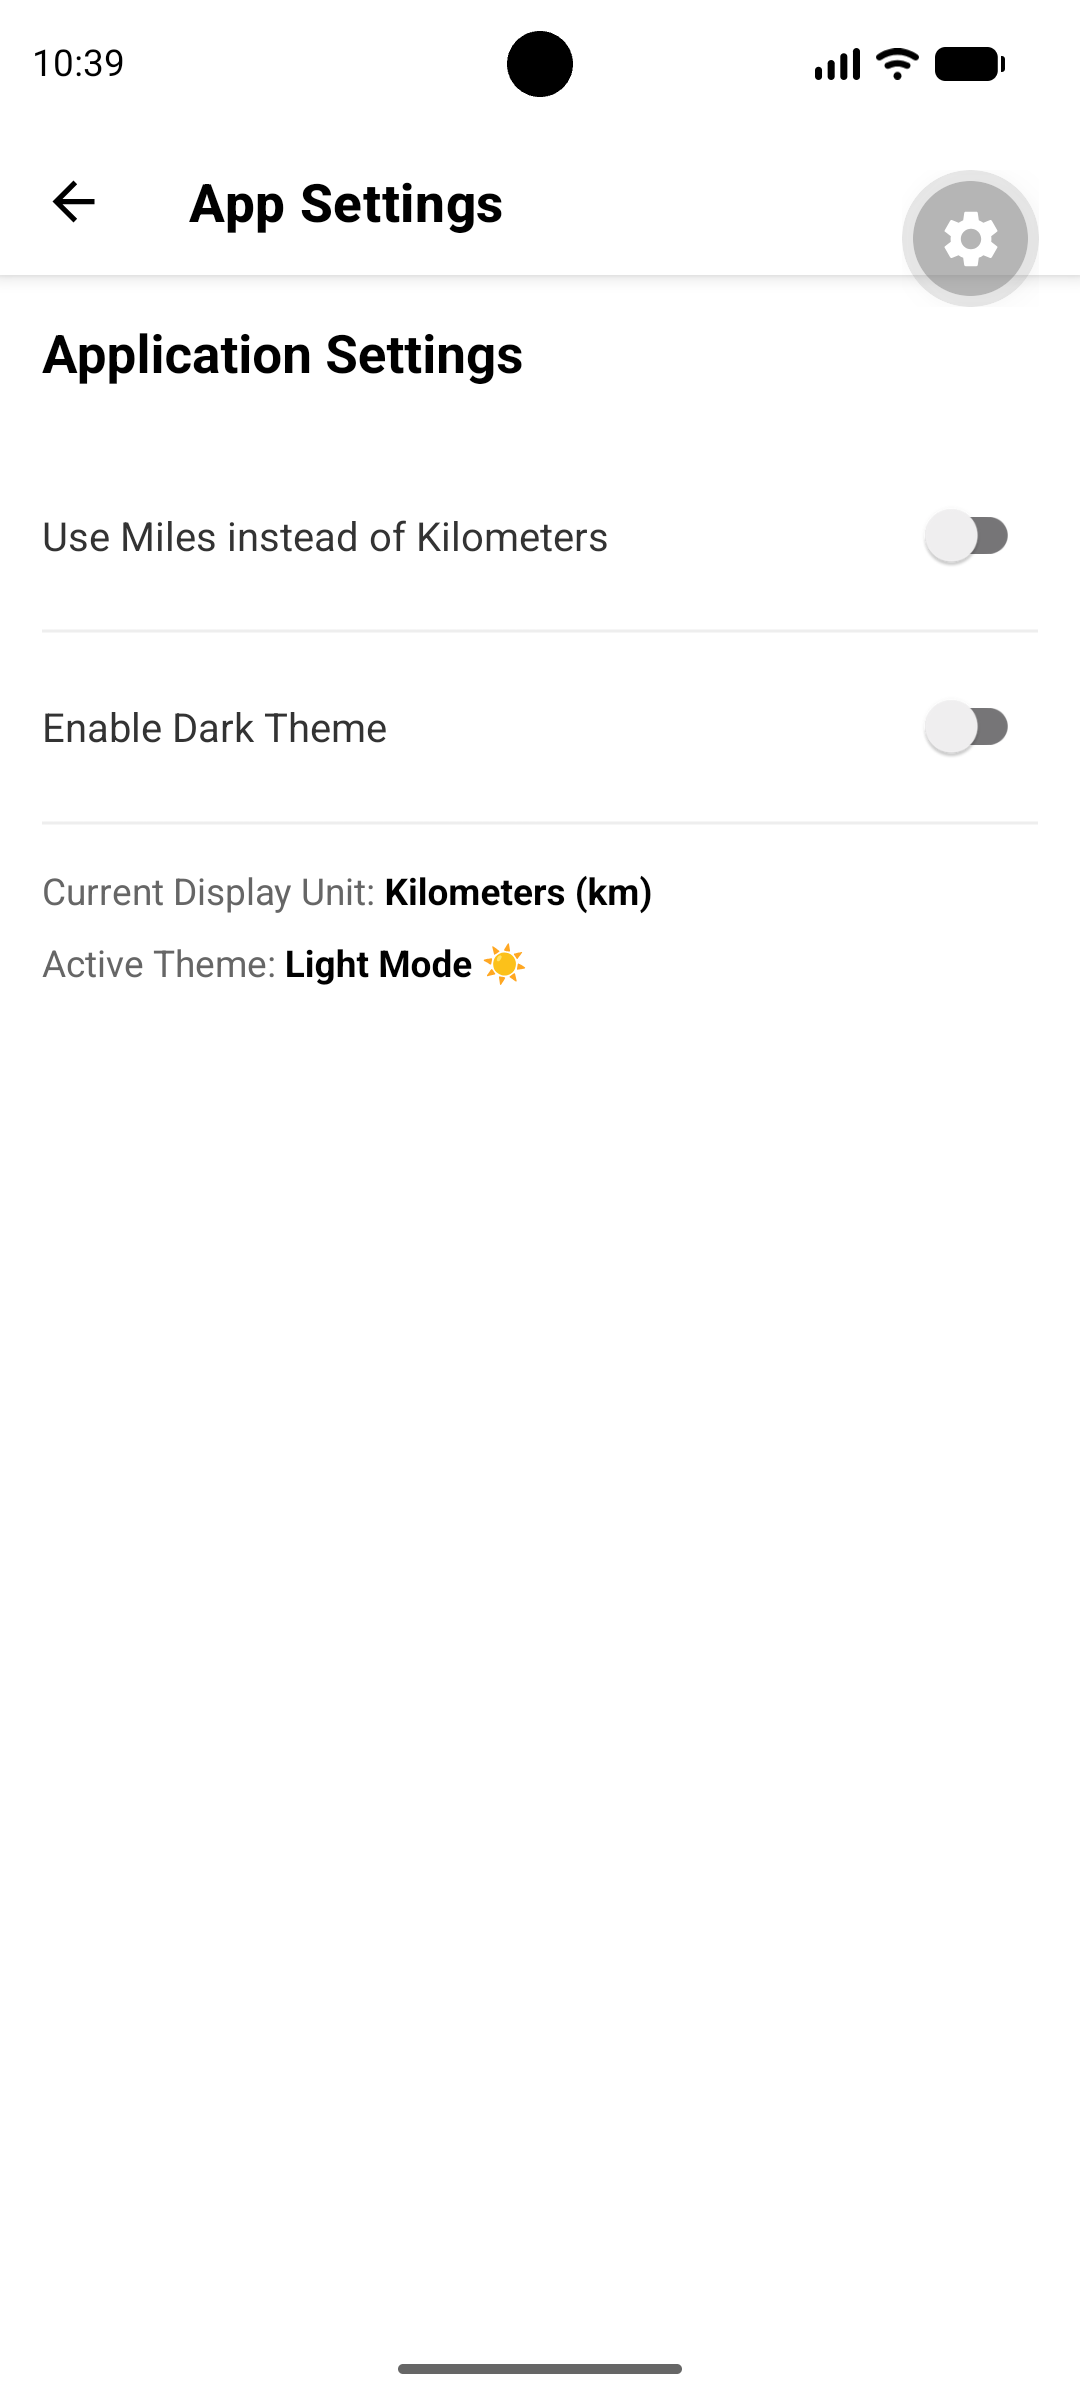
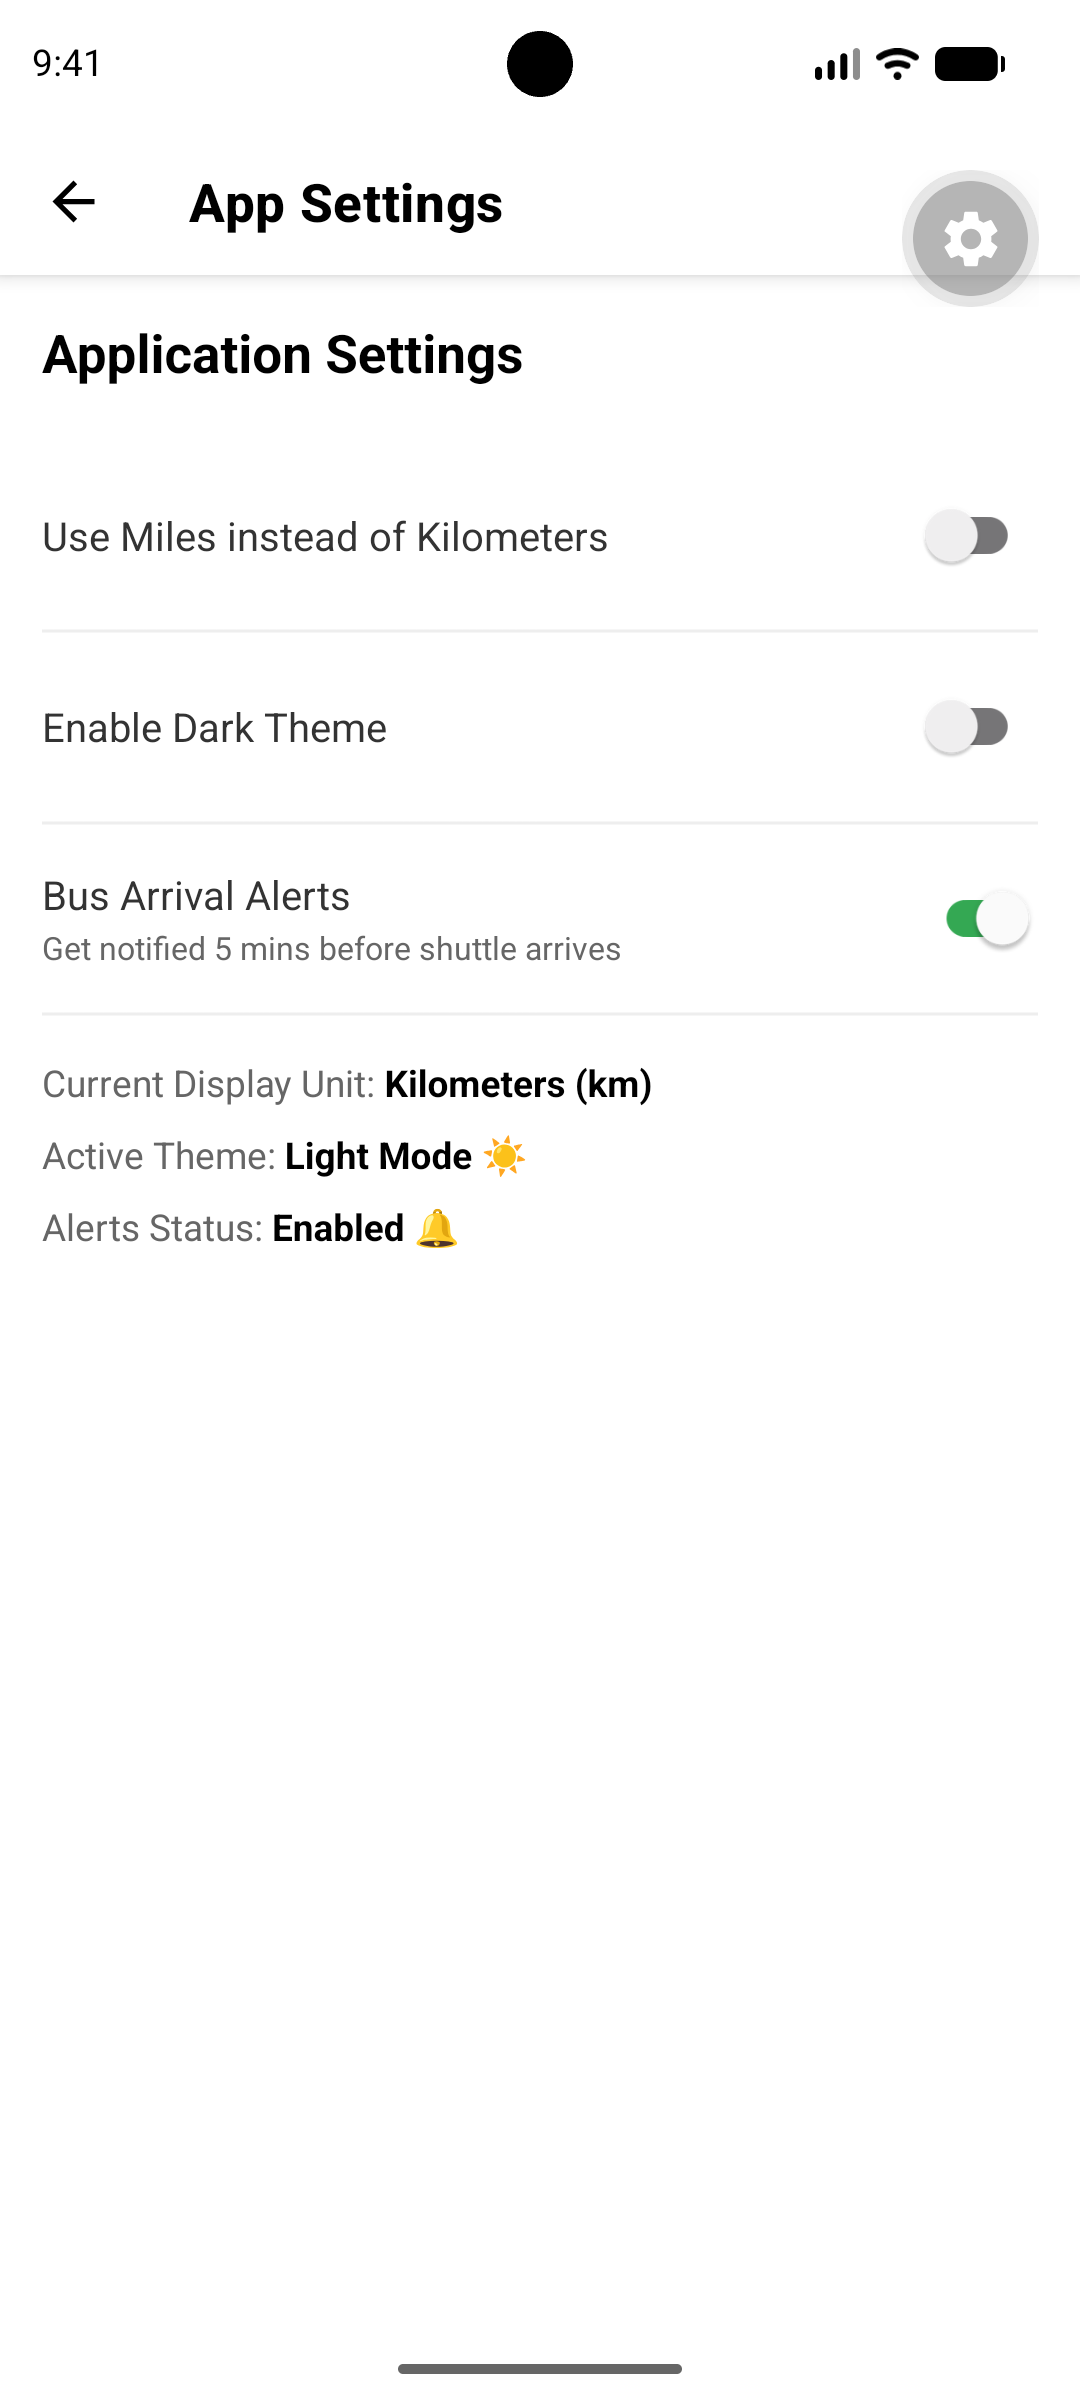
Added Bus Arrival Alerts notification toggle to SettingsScreen

diff --git a/screens/SettingsScreen.js b/screens/SettingsScreen.js
@@ -1,9 +1,12 @@
-import { useContext } from 'react';
+import { useContext, useState } from 'react';
 import { StyleSheet, Switch, Text, View } from 'react-native';
 import { SettingsContext } from '../context/SettingsContext';
 
 export default function SettingsScreen() {
   const { isMiles, setIsMiles, isDarkMode, setIsDarkMode } = useContext(SettingsContext);
+
+  //  Local State for Notifications
+  const [notificationsEnabled, setNotificationsEnabled] = useState(true);
 
   return (
     <View style={[styles.container, { backgroundColor: isDarkMode ? '#121212' : '#fff' }]}>
@@ -37,6 +40,24 @@ export default function SettingsScreen() {
         />
       </View>
 
+      
+      <View style={[styles.settingRow, { borderBottomColor: isDarkMode ? '#333' : '#eee' }]}>
+        <View style={styles.textGroup}>
+          <Text style={[styles.label, { color: isDarkMode ? '#ddd' : '#333' }]}>
+            Bus Arrival Alerts
+          </Text>
+          <Text style={[styles.subLabel, { color: isDarkMode ? '#aaa' : '#666' }]}>
+            Get notified 5 mins before shuttle arrives
+          </Text>
+        </View>
+        <Switch
+          trackColor={{ false: '#767577', true: '#34a853' }}
+          thumbColor={notificationsEnabled ? '#fff' : '#f4f3f4'}
+          value={notificationsEnabled}
+          onValueChange={(value) => setNotificationsEnabled(value)}
+        />
+      </View>
+
       {/* Status Info */}
       <Text style={[styles.statusText, { color: isDarkMode ? '#aaa' : '#666' }]}>
         Current Display Unit:{' '}
@@ -49,6 +70,13 @@ export default function SettingsScreen() {
         Active Theme:{' '}
         <Text style={{ fontWeight: 'bold', color: isDarkMode ? '#fff' : '#000' }}>
           {isDarkMode ? 'Dark Mode 🌙' : 'Light Mode ☀'}
+        </Text>
+      </Text>
+
+      <Text style={[styles.statusText, { color: isDarkMode ? '#aaa' : '#666', marginTop: 8 }]}>
+        Alerts Status:{' '}
+        <Text style={{ fontWeight: 'bold', color: isDarkMode ? '#fff' : '#000' }}>
+          {notificationsEnabled ? 'Enabled 🔔' : 'Disabled 🔕'}
         </Text>
       </Text>
     </View>
@@ -65,6 +93,8 @@ const styles = StyleSheet.create({
     paddingVertical: 12,
     borderBottomWidth: 1,
   },
+  textGroup: { flex: 1, paddingRight: 10 },
   label: { fontSize: 15 },
+  subLabel: { fontSize: 12, marginTop: 2 },
   statusText: { marginTop: 16, fontSize: 14 },
 });

diff --git a/README.md b/README.md
@@ -51,6 +51,10 @@ Users can switch between Light Mode and Dark Mode.
 
 The theme setting is managed globally using the React Context API, so the selected theme is applied consistently across the different screens.
 
+**Bus Arrival Alerts (Notifications)**
+
+Users can enable or disable push alerts to receive notifications 5 minutes before their scheduled shuttle arrives at the stop.
+
 ### 4. Student Profile
 
 The Profile Screen allows students to manage their basic profile information.
